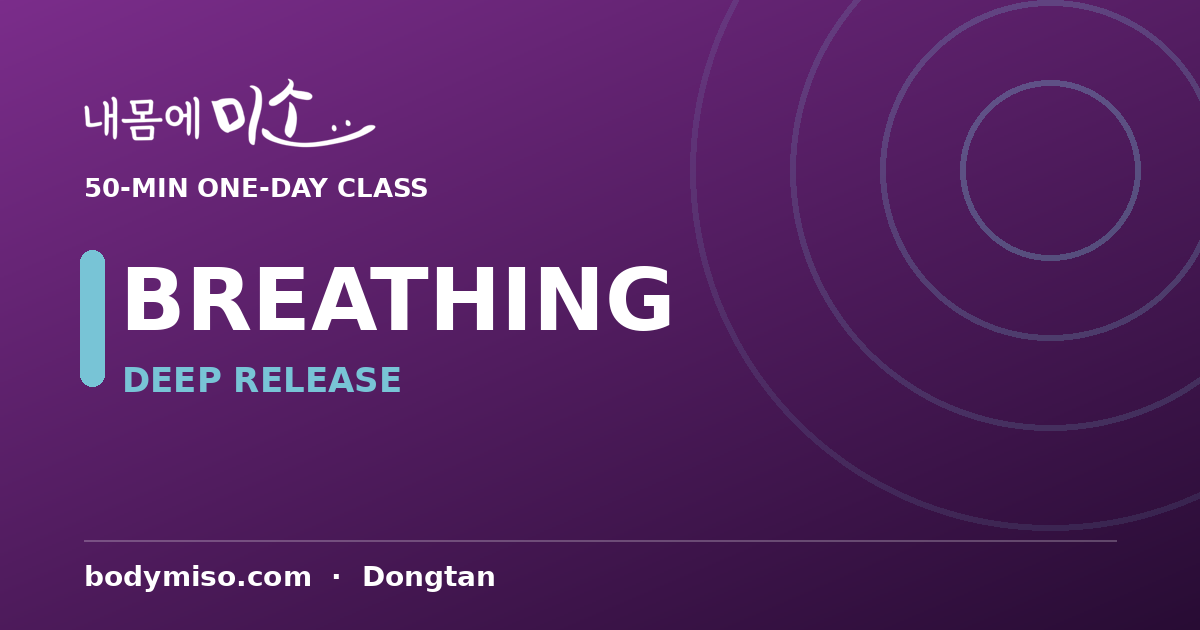
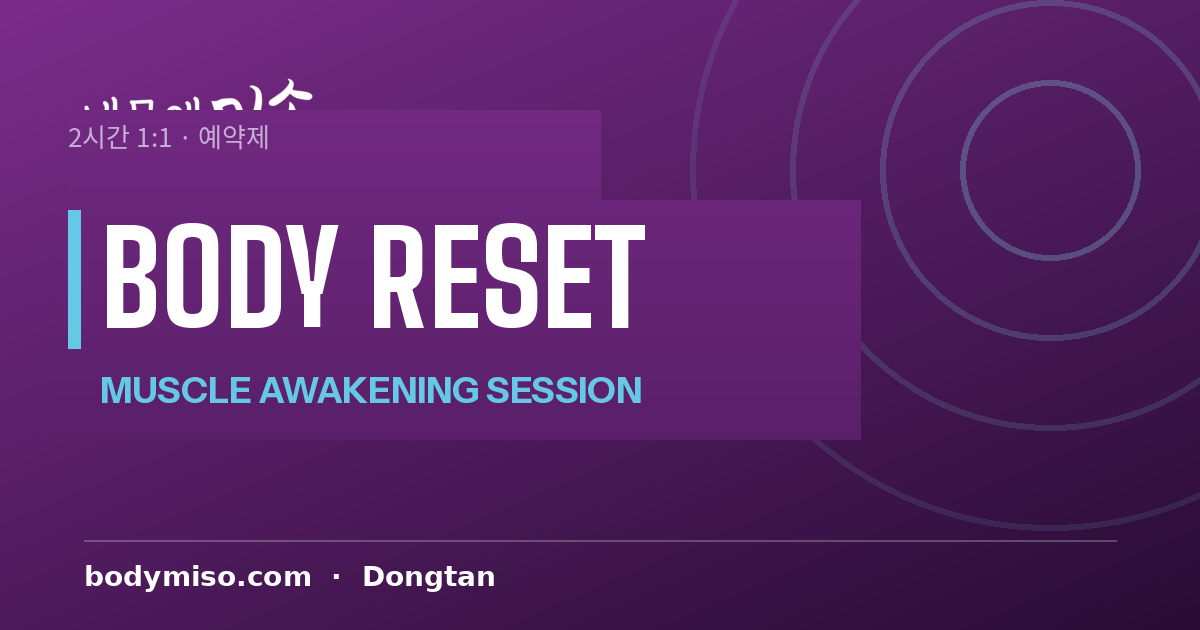
fix: 호흡 클래스 → 바디 리셋 세션 (헤더, 애널리틱스, OG이미지)

Changed region(s): [[0.0308, 0.2714, 0.5858, 0.6635], [0.6475, 0.3016, 0.74, 0.7238], [0.0617, 0.1508, 0.3083, 0.2413]]

diff --git a/src/app/admin/analytics/page.tsx b/src/app/admin/analytics/page.tsx
@@ -77,7 +77,7 @@ const PAGE_LABELS: Record<string, string> = {
   "/blog": "블로그",
   "/reviews": "후기",
   "/check": "자가진단",
-  "/class/breathing": "호흡 클래스",
+  "/class/breathing": "바디 리셋 세션",
   "/privacy": "개인정보처리방침",
 };
 

diff --git a/src/components/Header.tsx b/src/components/Header.tsx
@@ -9,7 +9,7 @@ const navLinks = [
   { href: "/programs", label: "프로그램" },
   { href: "/blog", label: "칼럼" },
   { href: "/check", label: "몸 상태 체크" },
-  { href: "/class/breathing", label: "원데이 클래스" },
+  { href: "/class/breathing", label: "바디 리셋 세션" },
 ];
 
 export default function Header() {